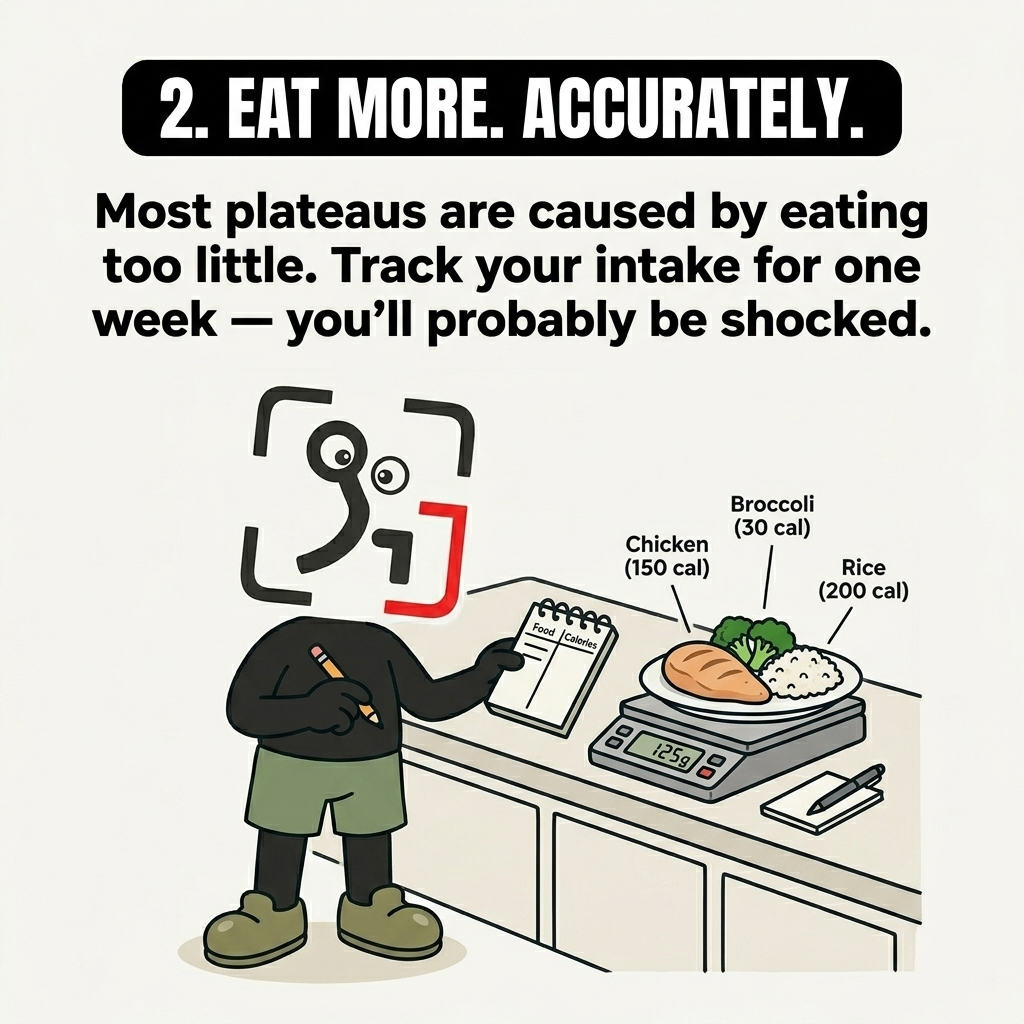
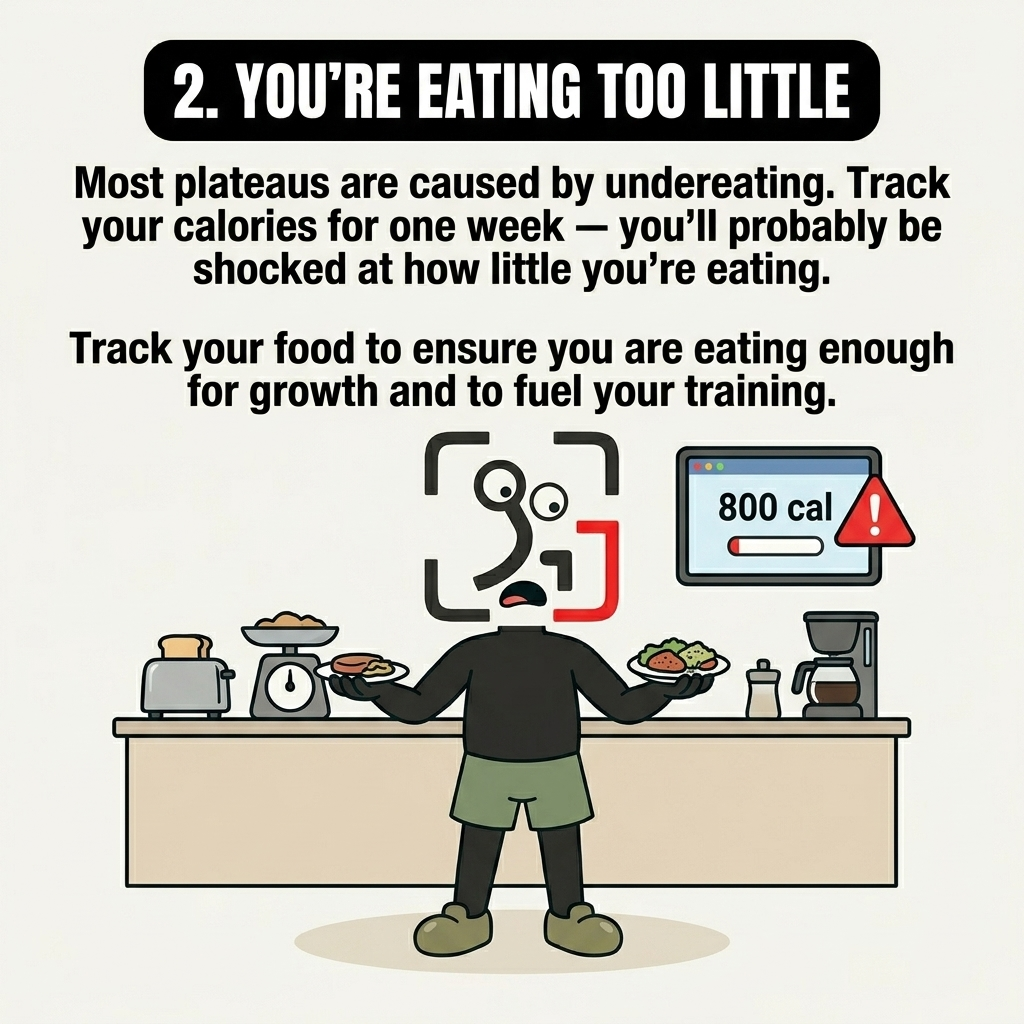
fix: replace confusing slide 2 copy in plateau-breaker; update skill promo cadence rule

diff --git a/.agent/skills/tiktok-carousel-generator/SKILL.md b/.agent/skills/tiktok-carousel-generator/SKILL.md
@@ -56,7 +56,7 @@ Follow these phases sequentially. **Do not skip ahead. Get user approval before 
 
 2. **Confirm the angle.** Ask: "What's the one thing you want someone to walk away knowing after seeing this post?" This ensures the slides have a clear through-line, not just random tips.
 
-3. **GainFrame mention (mandatory).** Every carousel MUST include exactly 1 natural GainFrame tie-in. Place it on slide 4 or 5. It should feel like a natural recommendation, not an ad. Example: "Track your progress with GainFrame" or "GainFrame helps catch trends you'd miss."
+3. **GainFrame mention (optional — 1 in 3 cadence).** Do NOT include a GainFrame promo slide in every carousel. Aim for roughly 1 in every 3 carousels. When included, place it on the final slide and make it feel like a natural recommendation, not an ad. Example: "Track your progress with GainFrame" or "GainFrame helps catch trends you'd miss." If the current comic is NOT the one to include it, end on a strong tip or motivational slide instead.
 
 ---
 
@@ -111,7 +111,7 @@ For each slide, draft:
   - At least 1 solo mascot action scene
   - Consider: mirror/dream sequence, prop interaction, before/after
 - The slides should build on each other — not just random tips
-- **GainFrame mention is MANDATORY** — place it on the final slide (e.g., Slide 5 or Slide 6). It should feel like a natural recommendation. For "Top 5" posts, the GainFrame mention MUST be Slide 6.
+- **GainFrame mention is OPTIONAL (1-in-3 cadence)** — skip it in most carousels. When included, place it on the final slide. It should feel organic, not promotional. For "Top 5" posts where GainFrame IS included, it becomes Slide 6 so you still deliver 5 real tips.
 
 **Present the full draft to the user as a formatted table:**
 
@@ -351,7 +351,7 @@ This step copies the finished slides and `content.md` to a dedicated folder insi
 - **No Text Overlay Script.** You do NOT use any Python script to overlay text. Gemini generates the text directly in the image. If the text fails, adjust your prompt and regenerate the slide. Save the final output using the strict `slide-0-cover.png` and `slide-[N].png` formats.
 - **Save everything.** Every carousel must have its own directory under `assets/tiktok/comic/[slug]/` with all images AND a `content.md` with the text + prompts used.
 - **Prompt reproducibility.** Always save the exact prompt used for each image in `content.md`. If a style works well, it becomes the new reference.
-- **Exactly 1 GainFrame mention per carousel.** Always included, never in the first 3 slides. Pure value first — product mention is earned, not forced.
+- **GainFrame mention: 1 in every 3 carousels, not every one.** When included, place it on the final slide only. Never in the first 3 slides. Pure value first — product mention is earned, not forced. Most carousels should end with a strong tip, not a plug.
 
 ## Reference Files
 - `assets/gf-mascot/STYLE_GUIDE.md` — **MUST READ FIRST** — Character design, visual constants, typography, badge specs, title patterns, prompt templates
